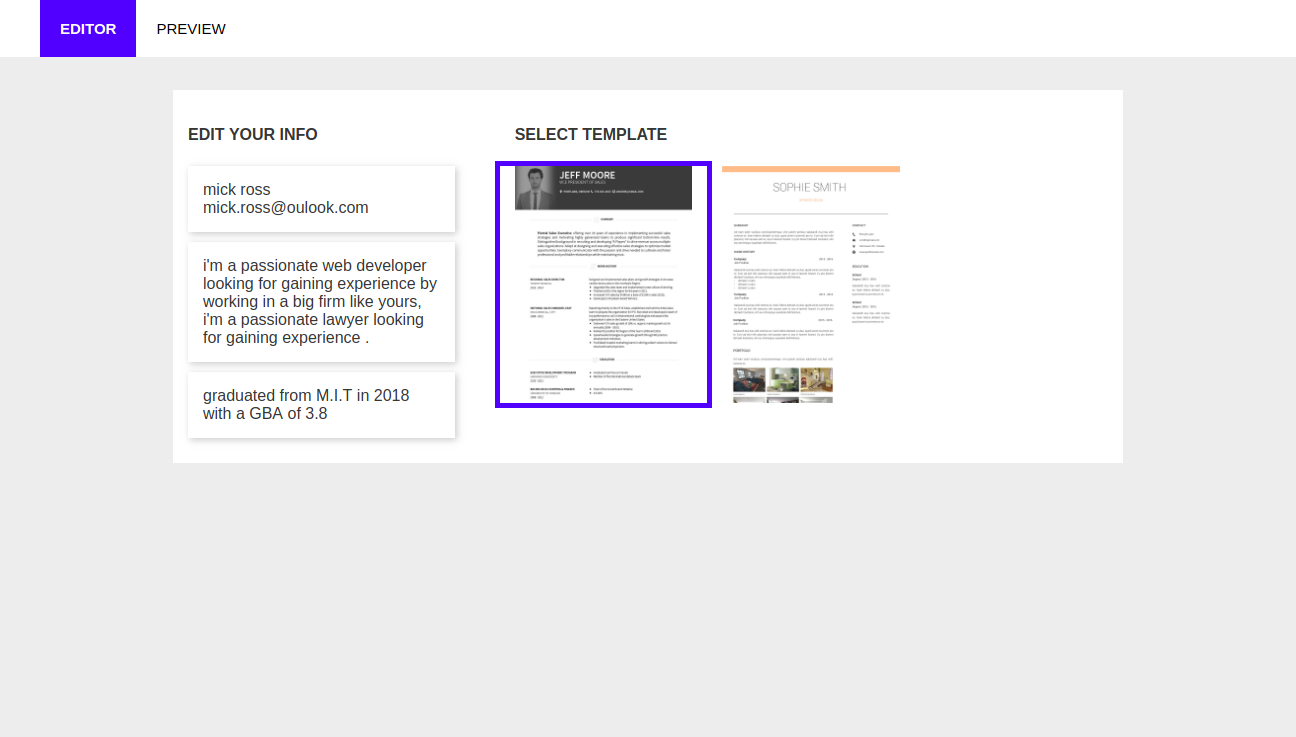
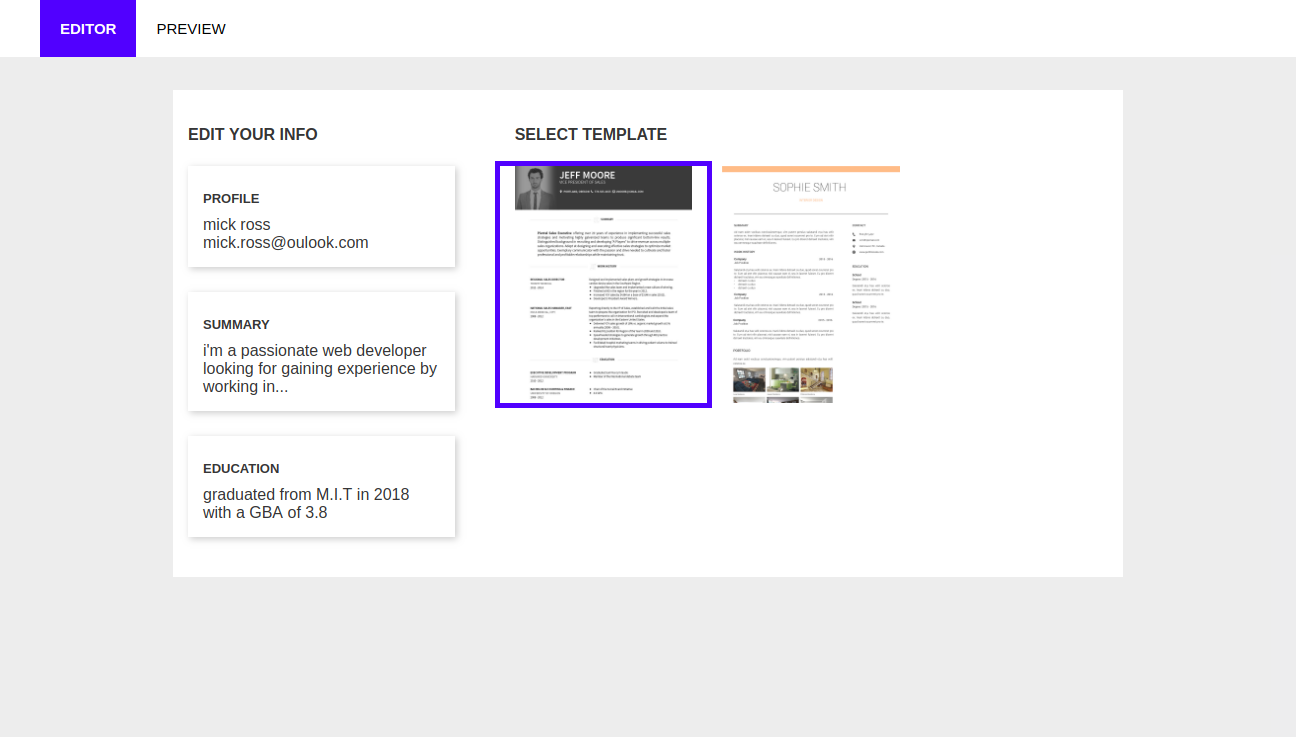
.

Changed region(s): [[0.1543, 0.2497, 0.3395, 0.5929], [0.1543, 0.6242, 0.3086, 0.7178]]

diff --git a/src/components/editor/Summary.js b/src/components/editor/Summary.js
@@ -30,9 +30,10 @@ class Summary extends Component {
 
    render() {
       return (
-         <React.Fragment>
-            <div onClick={this.openModal} className={detailsStyle}>
-               {this.props.summary}
+         <div className={section}>
+            <div onClick={this.openModal} className="details">
+               <h4 className="title">summary</h4>
+               {this.props.summary.substring(0, 75) + '...'}
             </div>
 
             {this.state.showForm && (
@@ -41,16 +42,22 @@ class Summary extends Component {
                   <button onClick={this.closeModal}>close</button>
                </Modal>
             )}
-         </React.Fragment>
+         </div>
       );
    }
 }
 
-const detailsStyle = css`
-   cursor: pointer;
-   padding: 15px;
-   margin-bottom: 10px;
-   box-shadow: 2px 2px 10px rgba(0, 0, 0, 0.2);
+const section = css`
+   .title {
+      font-size: 13px;
+      margin: 10px 0;
+   }
+   .details {
+      cursor: pointer;
+      padding: 15px;
+      margin-bottom: 25px;
+      box-shadow: 2px 2px 10px rgba(0, 0, 0, 0.2);
+   }
 `;
 
 export default WithForm(Summary);

diff --git a/src/components/editor/Education.js b/src/components/editor/Education.js
@@ -31,8 +31,9 @@ class Education extends Component {
 
    render() {
       return (
-         <React.Fragment>
-            <div onClick={this.openModal} className={detailsStyle}>
+         <div className={section}>
+            <div onClick={this.openModal} className="details">
+               <h4 className="title">education</h4>
                {this.props.education}
             </div>
 
@@ -42,16 +43,22 @@ class Education extends Component {
                   <button onClick={this.closeModal}>close</button>
                </Modal>
             )}
-         </React.Fragment>
+         </div>
       );
    }
 }
 
-const detailsStyle = css`
-   cursor: pointer;
-   padding: 15px;
-   margin-bottom: 10px;
-   box-shadow: 2px 2px 10px rgba(0, 0, 0, 0.2);
+const section = css`
+   .title {
+      font-size: 13px;
+      margin: 10px 0;
+   }
+   .details {
+      cursor: pointer;
+      padding: 15px;
+      margin-bottom: 25px;
+      box-shadow: 2px 2px 10px rgba(0, 0, 0, 0.2);
+   }
 `;
 
 export default WithForm(Education);

diff --git a/src/components/editor/Profile/index.js b/src/components/editor/Profile/index.js
@@ -65,8 +65,9 @@ class Profile extends Component {
 
    render() {
       return (
-         <div className={styles.profile}>
+         <div className={styles.section}>
             <div onClick={this.openModal} className="details">
+               <h4 className="title">Profile</h4>
                {this.props.name + '  ' + this.props.email}
             </div>
             {this.state.showForm && (
@@ -79,10 +80,5 @@ class Profile extends Component {
       );
    }
 }
-
-// ReactDOM.render(
-//    <Form {...this.props} showForm={this.state.showForm} />,
-//    document.querySelector('#popup')
-// );
 
 export default WithForm(Profile);

diff --git a/src/components/editor/Profile/Profile.css.js b/src/components/editor/Profile/Profile.css.js
@@ -1,10 +1,14 @@
 import { css } from 'emotion';
 
-export const profile = css`
+export const section = css`
+   .title {
+      font-size: 13px;
+      margin: 10px 0;
+   }
    .details {
       cursor: pointer;
       padding: 15px;
-      margin-bottom: 10px;
+      margin-bottom: 25px;
       box-shadow: 2px 2px 10px rgba(0, 0, 0, 0.2);
    }
 `;

diff --git a/src/components/Modal.js b/src/components/Modal.js
@@ -54,6 +54,10 @@ const popup = css`
    @media (max-width: 660px) {
       width: 100%;
    }
+
+   & textarea {
+      min-height: 25vh;
+   }
 `;
 
 const overlay = css`

diff --git a/src/styles/global.css b/src/styles/global.css
@@ -34,7 +34,9 @@ a {
    min-width: 400px;
    padding: 15px;
 }
-
+.popup textarea {
+   min-height: 25vh;
+}
 @media (max-width: 660px) {
    .popup {
       width: 100%;
